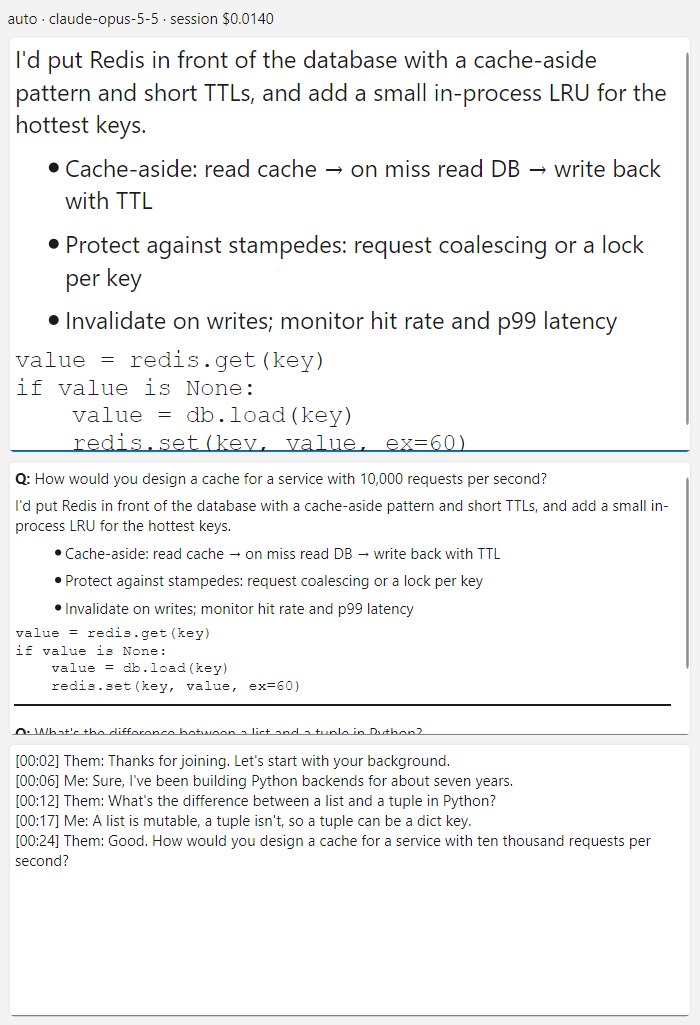
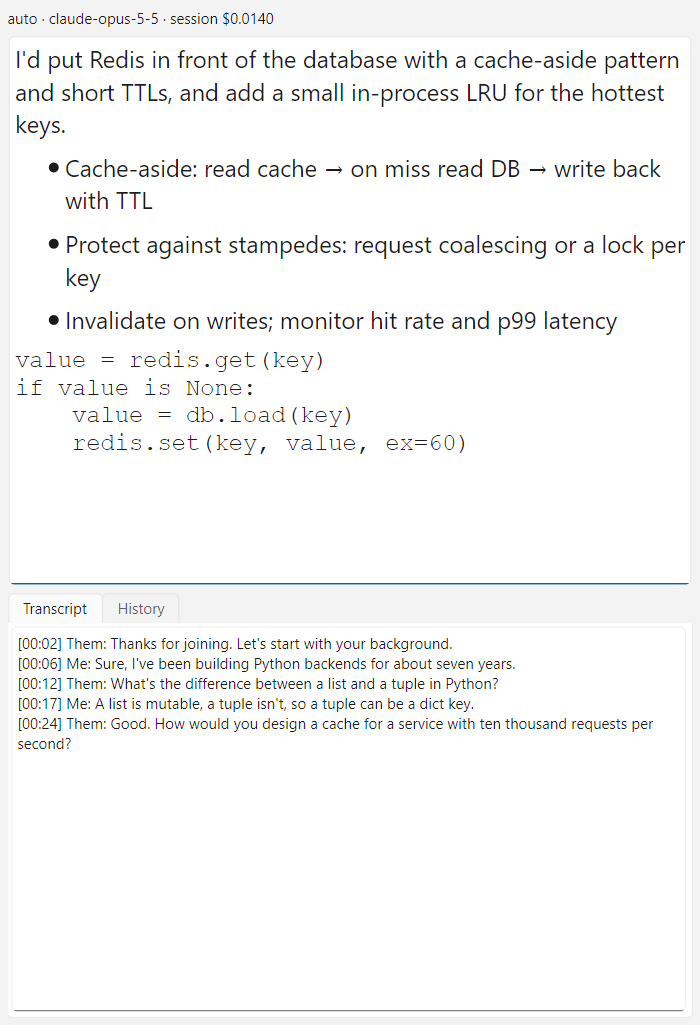
Hint window: transcript and history as tabs; compact overlay layout

diff --git a/src/shade/ui/hint_view.py b/src/shade/ui/hint_view.py
@@ -8,6 +8,7 @@ from PySide6.QtWidgets import (
     QLabel,
     QPlainTextEdit,
     QSplitter,
+    QTabWidget,
     QTextBrowser,
     QVBoxLayout,
     QWidget,
@@ -33,6 +34,7 @@ class HintView(QWidget):
         transcript_lines: int | None = None,
         show_history: bool = True,
         font_size: int = 14,
+        compact: bool = False,
         parent: QWidget | None = None,
     ) -> None:
         super().__init__(parent)
@@ -62,27 +64,40 @@ class HintView(QWidget):
         self._current.setFont(f)
 
         self._history_view = QTextBrowser()
-        self._history_view.setVisible(show_history)
 
         self._transcript = QPlainTextEdit()
         self._transcript.setReadOnly(True)
         if transcript_lines:
             self._transcript.setMaximumBlockCount(transcript_lines)
 
-        lower = QSplitter(Qt.Orientation.Vertical)
-        lower.addWidget(self._history_view)
-        lower.addWidget(self._transcript)
-        main = QSplitter(Qt.Orientation.Vertical)
-        main.addWidget(self._current)
-        main.addWidget(lower)
-        main.setStretchFactor(0, 3)
-        main.setStretchFactor(1, 2)
-
         layout = QVBoxLayout(self)
         layout.setContentsMargins(6, 6, 6, 6)
         layout.addWidget(self._status)
         layout.addWidget(self._error)
-        layout.addWidget(main, 1)
+
+        self.tabs: QTabWidget | None = None
+        if compact:
+            # Overlay: the hint takes all the space; a fixed strip of the last
+            # few transcript lines below it; no history.
+            self._transcript.setVerticalScrollBarPolicy(Qt.ScrollBarPolicy.ScrollBarAlwaysOff)
+            self._transcript.setHorizontalScrollBarPolicy(Qt.ScrollBarPolicy.ScrollBarAlwaysOff)
+            lines = transcript_lines or 3
+            height = lines * self._transcript.fontMetrics().lineSpacing() + 14
+            self._transcript.setFixedHeight(height)
+            layout.addWidget(self._current, 1)
+            layout.addWidget(self._transcript)
+        else:
+            # Window: current hint on top; transcript and history as tabs below.
+            self.tabs = QTabWidget()
+            self.tabs.addTab(self._transcript, "Transcript")
+            if show_history:
+                self.tabs.addTab(self._history_view, "History")
+            split = QSplitter(Qt.Orientation.Vertical)
+            split.addWidget(self._current)
+            split.addWidget(self.tabs)
+            split.setStretchFactor(0, 3)
+            split.setStretchFactor(1, 2)
+            layout.addWidget(split, 1)
 
     # ---- event handling ----------------------------------------------
 

diff --git a/tests/test_hint_view.py b/tests/test_hint_view.py
@@ -53,3 +53,18 @@ def test_transcript_lines(qtbot):
     for i in range(3):
         v.handle(UtteranceAdded(Utterance("them", f"line {i}", i, i + 1)))
     assert v.transcript_text().splitlines() == ["[00:01] Them: line 1", "[00:02] Them: line 2"]
+
+
+def test_window_mode_has_transcript_and_history_tabs(qtbot):
+    v = HintView()
+    qtbot.addWidget(v)
+    assert [v.tabs.tabText(i) for i in range(v.tabs.count())] == ["Transcript", "History"]
+
+
+def test_compact_mode_has_no_history_and_fixed_transcript(qtbot):
+    v = HintView(transcript_lines=3, compact=True)
+    qtbot.addWidget(v)
+    assert v.tabs is None
+    line = v._transcript.fontMetrics().lineSpacing()
+    assert v._transcript.maximumHeight() <= 3 * line + 20
+    assert v._transcript.minimumHeight() == v._transcript.maximumHeight()

diff --git a/src/shade/ui/overlay.py b/src/shade/ui/overlay.py
@@ -28,11 +28,11 @@ class Overlay(CaptureExcluded, QWidget):
             "QLabel { color: #f2f2f2; background: rgba(16,18,24,180); border-radius: 4px;"
             " padding: 2px 6px; }"
         )
-        self.view = HintView(transcript_lines=3, show_history=False, font_size=15)
+        self.view = HintView(transcript_lines=3, show_history=False, font_size=12, compact=True)
         layout = QVBoxLayout(self)
         layout.setContentsMargins(0, 0, 0, 0)
         layout.addWidget(self.view)
-        self.resize(520, 420)
+        self.resize(560, 470)
         pos = QSettings("Shade", "Shade").value("overlay/pos")
         if pos is not None:
             self.move(pos)

diff --git a/README.md b/README.md
@@ -20,9 +20,9 @@ other side's screen.
 
 ## Screenshots
 
-**Hint window** — the current hint on top (say the first lines out loud),
-earlier hints in the middle, the live transcript at the bottom. The status
-line shows the trigger, the model and the session cost.
+**Hint window** — the current hint on top (say the first lines out loud);
+below it, tabs with the live **Transcript** and the **History** of earlier
+hints. The status line shows the trigger, the model and the session cost.
 
 <img src="docs/images/hint-window.png" alt="Hint window during an interview" width="560">
 
